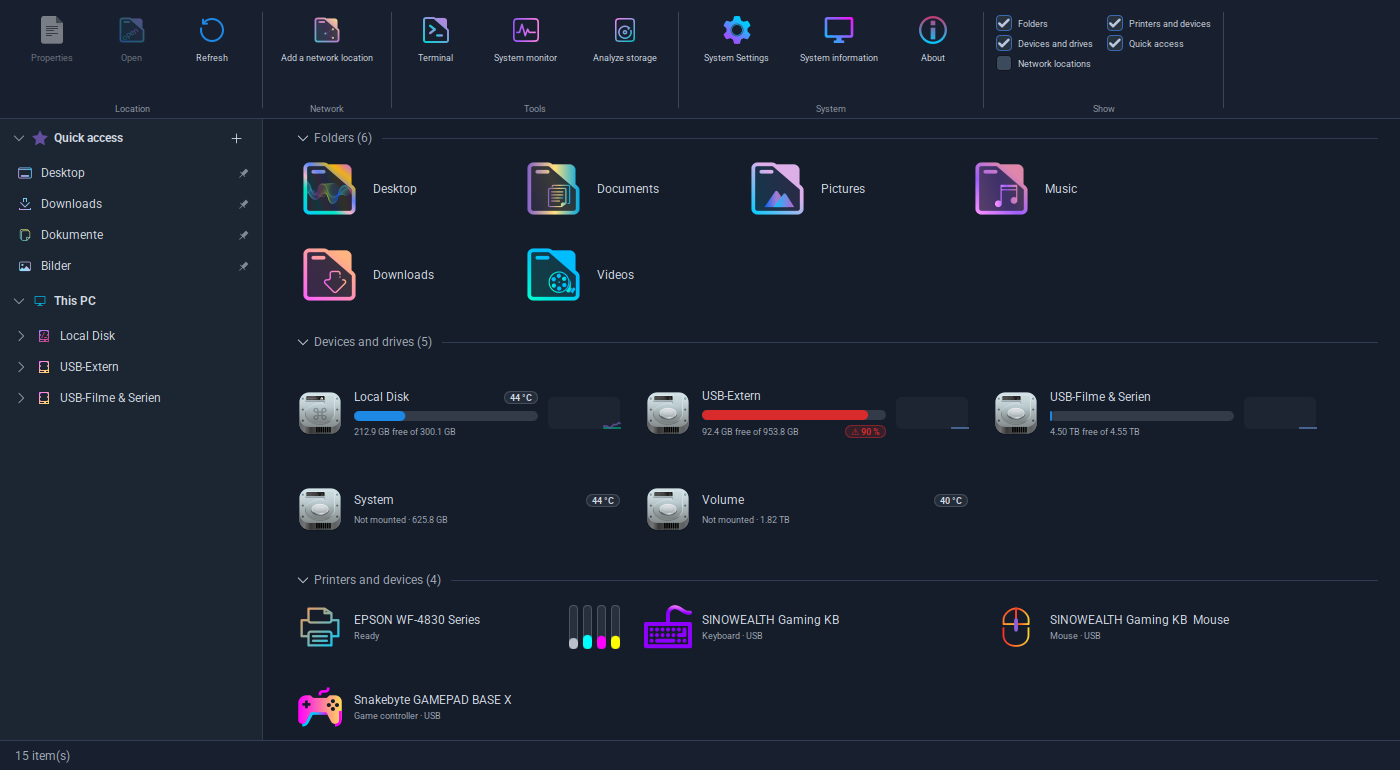
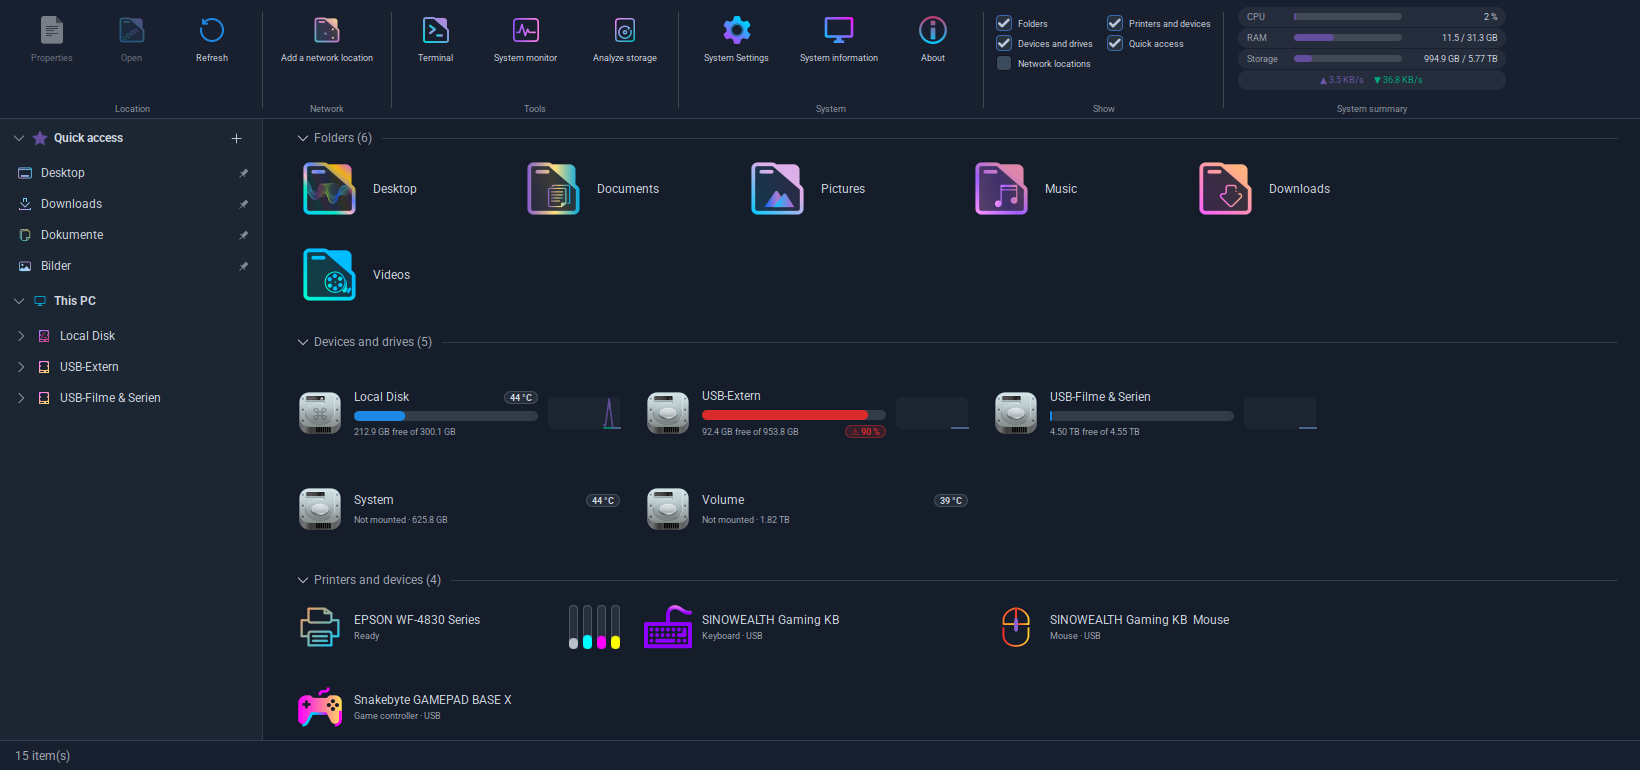
Add system summary chips and an Unmount action; refresh preview

diff --git a/drivedeck.py b/drivedeck.py
@@ -120,6 +120,9 @@ EXTRA_DE = {
     "Move down": "Nach unten",
     "Drag folders here to pin them": "Ordner hierher ziehen, um sie anzuheften",
     "Tools": "Werkzeuge",
+    "Unmount": "Aushängen",
+    "Cannot unmount": "Aushängen nicht möglich",
+    "System summary": "Systemübersicht",
     "Terminal": "Terminal",
     "System monitor": "Systemmonitor",
     "Analyze storage": "Speicher analysieren",
@@ -1705,6 +1708,57 @@ def glaetten(taux):
     return np.convolve(taux, kern, "same") / nenner
 
 
+def lire_cpu():
+    """(untätige Zeit, Gesamtzeit) aller Kerne aus der ersten Zeile von /proc/stat, in Ticks."""
+    with open("/proc/stat") as f:
+        werte = [int(x) for x in f.readline().split()[1:9]]   # user nice system idle iowait irq softirq steal
+    return werte[3] + werte[4], sum(werte)
+
+
+def lire_ram():
+    """(gesamt, verfügbar) in Bytes aus /proc/meminfo ; « verfügbar » zählt Cache mit, den der Kernel jederzeit freigibt."""
+    info = {}
+    with open("/proc/meminfo") as f:
+        for ligne in f:
+            cle, _, rest = ligne.partition(":")
+            if cle in ("MemTotal", "MemAvailable"):
+                info[cle] = int(rest.split()[0]) * 1024
+                if len(info) == 2:
+                    break
+    return info["MemTotal"], info["MemAvailable"]
+
+
+_NETZ_ECHT = {}   # Schnittstelle -> hat ein echtes Gerät dahinter (kein lo, Bridge, veth, VPN : sonst doppelt gezählt)
+
+
+def lire_netz():
+    """(empfangene, gesendete Bytes) aller echten Netzwerkkarten seit dem Start, aus /proc/net/dev."""
+    rx = tx = 0
+    with open("/proc/net/dev") as f:
+        for ligne in list(f)[2:]:
+            nom, _, rest = ligne.partition(":")
+            nom = nom.strip()
+            if nom not in _NETZ_ECHT:
+                _NETZ_ECHT[nom] = os.path.exists("/sys/class/net/%s/device" % nom)
+            if _NETZ_ECHT[nom]:
+                c = rest.split()
+                rx += int(c[0])
+                tx += int(c[8])
+    return rx, tx
+
+
+def speicher_summe(disks):
+    """(belegt, gesamt) in Bytes über alle eingebundenen lokalen Laufwerke ; jedes Gerät nur einmal (Btrfs-Subvolumes)."""
+    gesehen, belegt, gesamt = set(), 0, 0
+    for d in disks:
+        if d.get("isOptical") or d.get("isUnmounted") or d["device"] in gesehen:
+            continue
+        gesehen.add(d["device"])
+        belegt += d.get("used", 0)
+        gesamt += d.get("total", 0)
+    return belegt, gesamt
+
+
 class Backend(QObject):
     disksChanged = pyqtSignal()
     networksChanged = pyqtSignal()
@@ -1725,6 +1779,8 @@ class Backend(QObject):
     ioUpdated = pyqtSignal(dict)
     raiseRequested = pyqtSignal()   # ein zweiter Start soll das vorhandene Fenster nach vorn holen
     pinsUpdated = pyqtSignal(int, list)
+    statsChanged = pyqtSignal()
+    statsUpdated = pyqtSignal(dict)
 
     def __init__(self):
         super().__init__()
@@ -1735,6 +1791,8 @@ class Backend(QObject):
         self._aktivEvent.set()
         self._pinGen = 0
         self.pinsUpdated.connect(self._setPinInfos)
+        self._stats = {}
+        self.statsUpdated.connect(self._setStats)
         self._disks = charger_cache_disques()   # sofort sichtbar, wird gleich vom Thread aktualisiert
         self._networks = charger_cache_reseau()
         self._printers = charger_cache_imprimantes()
@@ -1763,6 +1821,41 @@ class Backend(QObject):
         self._pinInfos = pin_infos(self._pins, pruefen=False)   # sofort anzeigen ; Erreichbarkeit folgt im Hintergrund
         self._refreshPins()
         threading.Thread(target=self._ioLoop, daemon=True).start()
+        threading.Thread(target=self._statsLoop, daemon=True).start()
+
+    @pyqtProperty("QVariantMap", notify=statsChanged)
+    def sysStats(self):
+        """Live-Übersicht : cpu (%), ramUsed/ramTotal, up/down (Bytes/s), diskUsed/diskTotal ; leer bis zur 1. Messung."""
+        return self._stats
+
+    def _setStats(self, neu):
+        if neu != self._stats:
+            self._stats = neu
+            self.statsChanged.emit()
+
+    def _statsLoop(self):
+        # Einmal pro Sekunde : /proc/stat, /proc/meminfo, /proc/net/dev (drei kleine Dateien, kein Prozessstart).
+        # CPU und Netz sind Zähler : die Rate ist die Differenz zweier Messungen geteilt durch die Zeit dazwischen.
+        vor = None
+        while True:
+            if self._bereit():
+                vor = None   # nach der Pause nicht über die Lücke mitteln
+            try:
+                t = time.monotonic()
+                cpu, netz, (ram_gesamt, ram_frei) = lire_cpu(), lire_netz(), lire_ram()
+                if vor is not None:
+                    dt = max(t - vor[0], 1e-3)
+                    d_idle, d_ges = cpu[0] - vor[1][0], cpu[1] - vor[1][1]
+                    belegt, gesamt = speicher_summe(self._disks)
+                    self.statsUpdated.emit({
+                        "cpu": round(100 * (1 - d_idle / d_ges)) if d_ges > 0 else 0,
+                        "ramUsed": ram_gesamt - ram_frei, "ramTotal": ram_gesamt,
+                        "down": max(netz[0] - vor[2][0], 0) / dt, "up": max(netz[1] - vor[2][1], 0) / dt,
+                        "diskUsed": belegt, "diskTotal": gesamt})
+                vor = (t, cpu, netz)
+            except (OSError, ValueError, IndexError, KeyError):
+                vor = None
+            time.sleep(1)
 
     @pyqtSlot(bool)
     def setActive(self, aktiv):
@@ -2423,6 +2516,28 @@ class Backend(QObject):
                 self.messageRequested.emit(titre, str(e))
                 return
         self.messageRequested.emit(titre, tr("No terminal program found"))
+
+    @pyqtSlot(str, str)
+    def unmountDevice(self, device, label):
+        """Aushängen : nur abmelden, das Laufwerk bleibt eingeschaltet (anders als « Sicher entfernen »)."""
+        threading.Thread(target=self._unmount, args=(device, label), daemon=True).start()
+
+    def _unmount(self, device, label):
+        titre = tr("Cannot unmount")
+        try:
+            r = subprocess.run(["udisksctl", "unmount", "-b", device], capture_output=True, text=True, timeout=30)
+        except FileNotFoundError:
+            self.messageRequested.emit(titre, tr("The udisksctl command was not found on this system."))
+            return
+        except subprocess.TimeoutExpired:
+            self.messageRequested.emit(titre, tr("Unmounting {label} timed out.").format(label=label))
+            return
+        if r.returncode != 0:
+            detail = r.stderr.strip() or tr("unknown error")
+            self.messageRequested.emit(titre, tr("Could not unmount {label}:\n{detail}\n\n"
+                                                 "Check that no file is still open on this drive.").format(label=label, detail=detail))
+            return
+        self._diskWake.set()   # die Karte zeigt sofort « Nicht eingebunden »
 
     @pyqtSlot(str, str)
     def ejectDevice(self, device, label):
@@ -3952,7 +4067,117 @@ QQC2.ApplicationWindow {
                                        Kirigami.Theme.textColor.b, 0.2)
                     }
 
-                    Item { Layout.fillWidth: true }
+                    // liveUebersicht : kompakte Telemetrie-Chips im freien Platz rechts. Die Gruppe bestimmt die Mindestbreite
+                    // des Fensters nicht mit (preferredWidth 0) und blendet sich aus, wenn der Platz nicht reicht.
+                    ColumnLayout {
+                        id: liveGrp
+                        Layout.fillWidth: true
+                        Layout.fillHeight: true
+                        Layout.preferredWidth: 0
+                        Layout.minimumWidth: 0
+                        Layout.maximumWidth: 280
+                        spacing: 2
+                        readonly property var st: backend.sysStats
+                        readonly property bool ready: st.cpu !== undefined
+                        readonly property bool roomy: width >= 190
+                        // « 4,2 / 32,0 GB » : die Einheit des ersten Werts entfällt, wenn sie gleich ist
+                        function pair(a, b) {
+                            var ta = win.taille(a), tb = win.taille(b)
+                            var ue = tb.substring(tb.lastIndexOf(" "))
+                            return (ta.substring(ta.lastIndexOf(" ")) === ue ? ta.slice(0, ta.length - ue.length) : ta) + " / " + tb
+                        }
+                        readonly property var chips: !ready ? [] : [
+                            { l: "CPU", f: st.cpu / 100, t: st.cpu + " %" },
+                            { l: "RAM", f: st.ramTotal > 0 ? st.ramUsed / st.ramTotal : 0, t: pair(st.ramUsed, st.ramTotal) },
+                            { l: "Storage", f: st.diskTotal > 0 ? st.diskUsed / st.diskTotal : 0, t: pair(st.diskUsed, st.diskTotal) },
+                            { l: "", f: -1, t: "" }
+                        ]
+
+                        Item {
+                            Layout.fillWidth: true
+                            Layout.preferredHeight: 84
+                            visible: liveGrp.roomy && liveGrp.ready
+                            Column {
+                                x: 6
+                                y: 1
+                                width: parent.width - 12
+                                spacing: 1
+                                Repeater {
+                                    model: liveGrp.chips
+                                    delegate: Rectangle {
+                                        width: parent.width
+                                        height: 20   // höher als die Schrift : Balken und Text lassen sich besser ablesen
+                                        radius: 10
+                                        color: Qt.rgba(Kirigami.Theme.textColor.r, Kirigami.Theme.textColor.g, Kirigami.Theme.textColor.b, 0.07)
+                                        readonly property bool isNet: modelData.f < 0
+                                        readonly property real f: Math.max(0, Math.min(1, modelData.f))
+                                        QQC2.Label {
+                                            visible: !parent.isNet
+                                            x: 9
+                                            anchors.verticalCenter: parent.verticalCenter
+                                            width: 46
+                                            text: modelData.l
+                                            font: Kirigami.Theme.smallFont
+                                            opacity: 0.7
+                                            color: Kirigami.Theme.textColor
+                                        }
+                                        Rectangle {   // Mini-Fortschrittsbalken : ab 80 % orange, ab 90 % rot (wie die Laufwerkskarten)
+                                            visible: !parent.isNet
+                                            x: 56
+                                            anchors.verticalCenter: parent.verticalCenter
+                                            width: Math.max(24, parent.width - 160)   // der Balken nimmt den freien Platz
+                                            height: 7
+                                            radius: 3.5
+                                            color: Qt.rgba(Kirigami.Theme.textColor.r, Kirigami.Theme.textColor.g, Kirigami.Theme.textColor.b, 0.16)
+                                            Rectangle {
+                                                width: parent.width * parent.parent.f
+                                                height: parent.height
+                                                radius: parent.radius
+                                                color: parent.parent.f >= 0.9 ? Kirigami.Theme.negativeTextColor
+                                                     : (parent.parent.f >= 0.8 ? Kirigami.Theme.neutralTextColor : Kirigami.Theme.highlightColor)
+                                                Behavior on width { NumberAnimation { duration: 400; easing.type: Easing.OutCubic } }
+                                            }
+                                        }
+                                        QQC2.Label {
+                                            visible: !parent.isNet
+                                            anchors.verticalCenter: parent.verticalCenter
+                                            x: parent.width - 98
+                                            width: 90
+                                            text: modelData.t
+                                            elide: Text.ElideRight
+                                            horizontalAlignment: Text.AlignRight
+                                            font: Kirigami.Theme.smallFont
+                                            color: Kirigami.Theme.textColor
+                                        }
+                                        Row {   // Netz : ▲ gesendet (orange) ▼ empfangen (grün)
+                                            visible: parent.isNet
+                                            anchors.centerIn: parent
+                                            spacing: 10
+                                            QQC2.Label {
+                                                text: "\u25B2 " + win.rateText(liveGrp.st.up)
+                                                font: Kirigami.Theme.smallFont
+                                                color: Kirigami.Theme.neutralTextColor
+                                            }
+                                            QQC2.Label {
+                                                text: "\u25BC " + win.rateText(liveGrp.st.down)
+                                                font: Kirigami.Theme.smallFont
+                                                color: Kirigami.Theme.positiveTextColor
+                                            }
+                                        }
+                                    }
+                                }
+                            }
+                        }
+                        Item { Layout.fillHeight: true }
+                        QQC2.Label {
+                            Layout.alignment: Qt.AlignHCenter
+                            visible: liveGrp.roomy && liveGrp.ready
+                            text: win.trad("System summary")
+                            font: Kirigami.Theme.smallFont
+                            opacity: 0.65
+                            color: Kirigami.Theme.textColor
+                        }
+                    }
                 }
             }
         }
@@ -4737,6 +4962,16 @@ QQC2.ApplicationWindow {
                                         icon.name: win.isPinned(modelData.mountpoint) ? "window-unpin" : "window-pin"
                                         onTriggered: win.isPinned(modelData.mountpoint) ? backend.unpinPath(modelData.mountpoint)
                                                                                         : backend.pinPath(modelData.mountpoint, modelData.label, "drive-harddisk")
+                                    }
+                                    QQC2.MenuItem {
+                                        text: win.trad("Unmount")
+                                        icon.name: "media-mount"
+                                        // nicht für das System selbst (« / », /boot, /home, /var …) und nicht für optische Laufwerke
+                                        visible: modelData.isUnmounted !== true && modelData.isOptical !== true
+                                                 && modelData.mountpoint.charAt(0) === "/"
+                                                 && !/^[/](boot|home|var|usr|opt|etc|nix)?([/]|$)/.test(modelData.mountpoint)
+                                        height: visible ? implicitHeight : 0
+                                        onTriggered: backend.unmountDevice(modelData.device, modelData.label)
                                     }
                                     QQC2.MenuItem {
                                         text: win.trad("Safely remove")

diff --git a/README.md b/README.md
@@ -67,9 +67,15 @@ Everything below is explained in plain words. You do **not** need to be a progra
   automatically shows up as a card marked "Not mounted". **Double-click it** (or right-click → *Mount*) and it is
   connected and opened. Tiny system partitions (boot, recovery, swap, encrypted) are hidden on purpose.
 - **More right-click options**
-  - On drives: *Mount*, *Open in terminal*, *Analyze storage*, *Copy path* (folder cards and the Quick access pane
+  - On drives: *Mount*, *Unmount*, *Open in terminal*, *Analyze storage*, *Copy path* (folder cards and the Quick access pane
     also offer *Analyze storage*)
   - On network locations: *Disconnect*, *Open in terminal*, *Copy path*
+- **System summary.** Compact live chips at the right end of the ribbon: **CPU** load, **RAM** used / total,
+  **Storage** (all mounted local drives together) and network throughput (▲ sent, ▼ received). The bars turn orange at
+  80 % and red at 90 %. The chips use the free space on the right and hide themselves when the window is too narrow
+  (about 1430 px or less); they pause while the window is minimised.
+- **Unmount.** *Unmount* in a drive's right-click menu only logs the drive out and leaves it powered on, unlike
+  *Safely remove*. It is not offered for system folders (`/`, `/boot`, `/home` …) or optical drives.
 - **Tools group.** A ribbon group with **Terminal**, **System monitor** (Plasma System Monitor, otherwise btop or htop)
   and **Analyze storage** (Filelight, otherwise Baobab or ncdu) to find what eats your space. The analysis runs on the
   selected local drive, or on your home folder. Buttons for programs that are not installed are hidden.

diff --git a/CHANGELOG.md b/CHANGELOG.md
@@ -32,6 +32,14 @@ hidden and everything else works).
 
 ### New features
 
+- **System summary chips.** Four compact telemetry chips (CPU %, RAM used/total, Storage used/total of all mounted
+  local drives, network ▲/▼ rates) in the free space right of the *Show* group. A `_statsLoop` thread reads
+  `/proc/stat`, `/proc/meminfo` and `/proc/net/dev` once per second (no process is started; rates are counter
+  differences; only real network cards are counted, so bridges, veth and VPNs are not counted twice) and pauses with
+  the window. The group has no preferred width, so the minimum window width stays the same; it hides below ~190 px of
+  free ribbon space.
+- **Unmount.** `unmountDevice` (`udisksctl unmount`) in the drive context menu, without powering the drive off. Hidden
+  for system mount points and optical drives; errors (e.g. a file is still open) are shown in a message.
 - **Tools group in the ribbon.** *Terminal*, *System monitor* (`plasma-systemmonitor`, else `btop`/`htop` in a terminal)
   and *Analyze storage* (`filelight`, else `baobab`, else `ncdu -x` in a terminal). Buttons only appear for installed
   programs (`backend.tools`); programs are started through a fixed table (`WERKZEUGE`) via `launchTool`, never from
